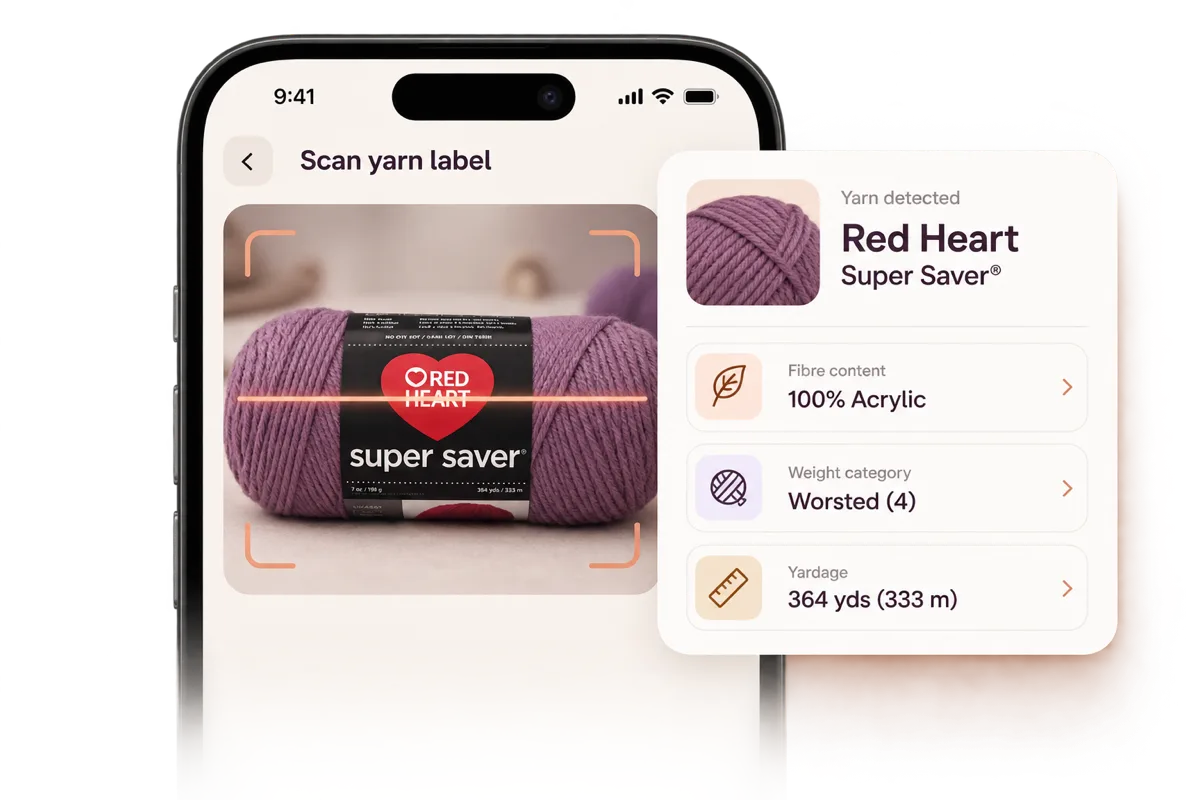
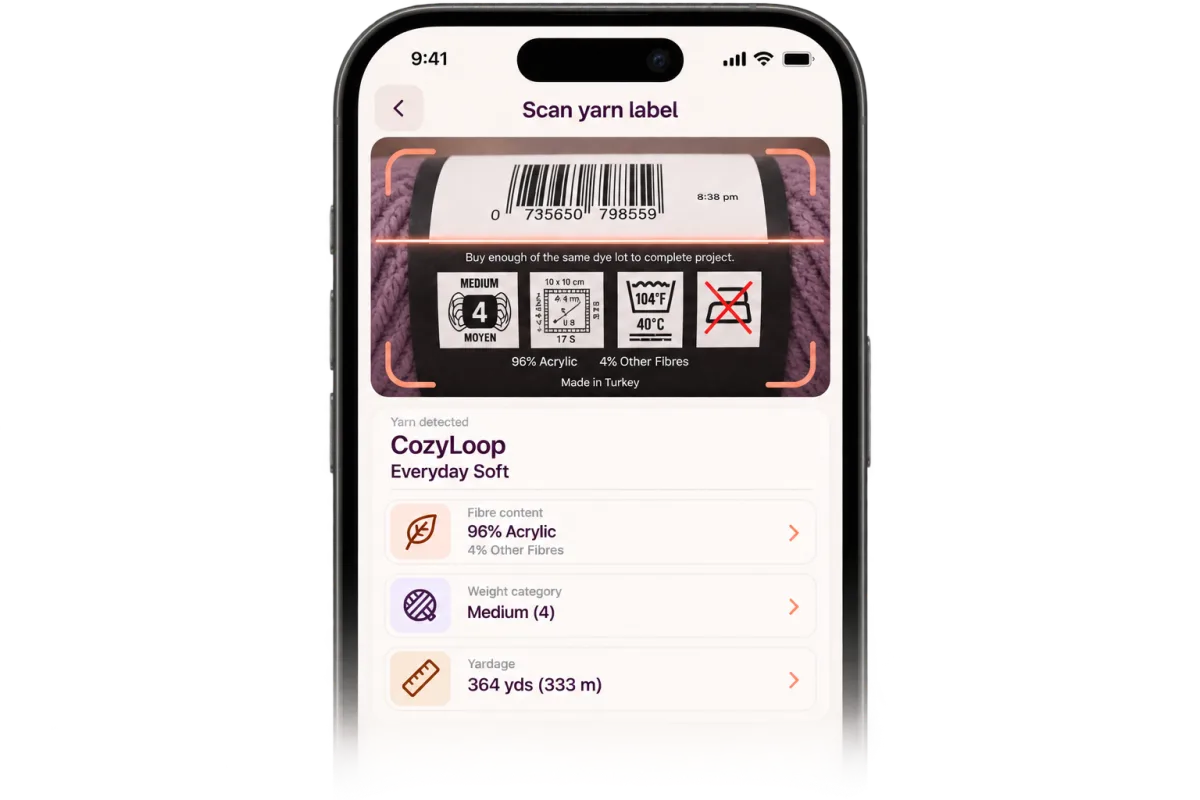
fix(site): hero shrink is mobile-only; mobile art at the art's own ratio
The hero mockup at 440 was right on desktop all along — only the phone
was wrong, where it dominated the fold and pushed the waitlist form and
Founding Member card out of view. 308 now applies below md and 440
returns above it.

Mobile feature frames go to 3/2, which is the ART'S OWN ratio and
therefore the largest the image can ever be in this card: letterboxing
stops entirely and the image fills the frame edge to edge. Going taller
would not enlarge it further, only pad above and below, because past
3/2 the image becomes width-limited instead. Detail on the craft
assistant card was the specific concern.

Also replaces the yarn scanner art with the founder's new render: same
1200x800 as the rest of the set, and it uses a fictional CozyLoop band
instead of the real Red Heart Super Saver, which takes a trademark we do
not own off the marketing page. 1.3MB PNG in, 68KB webp out.

diff --git a/src/components/FeatureCard.tsx b/src/components/FeatureCard.tsx
@@ -42,15 +42,20 @@ export default function FeatureCard({
         THE IMAGE IS HEIGHT-LIMITED — the frame's height is the only thing that
         sizes it, and widening does nothing at all.
 
-        The two viewports wanted opposite things (founder, 2026-08-17): on a
-        phone a card is nearly full-width and the art still read small, while on
-        a desktop the same frame in a multi-column grid was too big. So mobile
-        gets a taller frame (930) and md+ a shorter one (700) — not one
-        compromise value that suits neither.
+        The two viewports want opposite things (founder, 2026-08-17). On a
+        desktop the art sits in a multi-column grid and a shorter frame (700)
+        is right. On a phone a card is nearly full width and the art still read
+        too small to make out detail — the craft assistant card especially.
+
+        Mobile is now 3/2, which is the ART'S OWN ratio. That is the largest
+        the image can ever be here: the frame stops letterboxing entirely and
+        the image fills it edge to edge. A taller frame would not enlarge it
+        further, only pad above and below, because past this point the image
+        becomes width-limited instead.
       */}
       <div
         className={`min-w-0 px-[22px] pt-[28px] ${
-          ratio ? "" : "aspect-[1728/930] md:aspect-[1728/700]"
+          ratio ? "" : "aspect-[3/2] md:aspect-[1728/700]"
         }`}
         style={ratio ? { aspectRatio: ratio } : undefined}
       >

diff --git a/src/components/Hero.tsx b/src/components/Hero.tsx
@@ -234,10 +234,11 @@ export default function Hero() {
               initial={{ opacity: 0, y: 40 }}
               animate={{ opacity: 1, y: 0 }}
               transition={{ delay: 0.3, duration: 0.8, ease: [0.22, 1, 0.36, 1] }}
-              // 308px = 440 * 0.7. The mockup dominated the fold on a phone,
-              // pushing the waitlist form and the Founding Member card out of
-              // view (founder, 2026-08-17).
-              className="relative w-full max-w-[308px]"
+              // Desktop was right at 440 all along — only the phone was wrong,
+              // where the mockup dominated the fold and pushed the waitlist form
+              // and Founding Member card out of view. So the reduction applies
+              // to mobile only (founder, 2026-08-17).
+              className="relative w-full max-w-[308px] md:max-w-[440px]"
             >
               <img
                 src={heroMockup}
